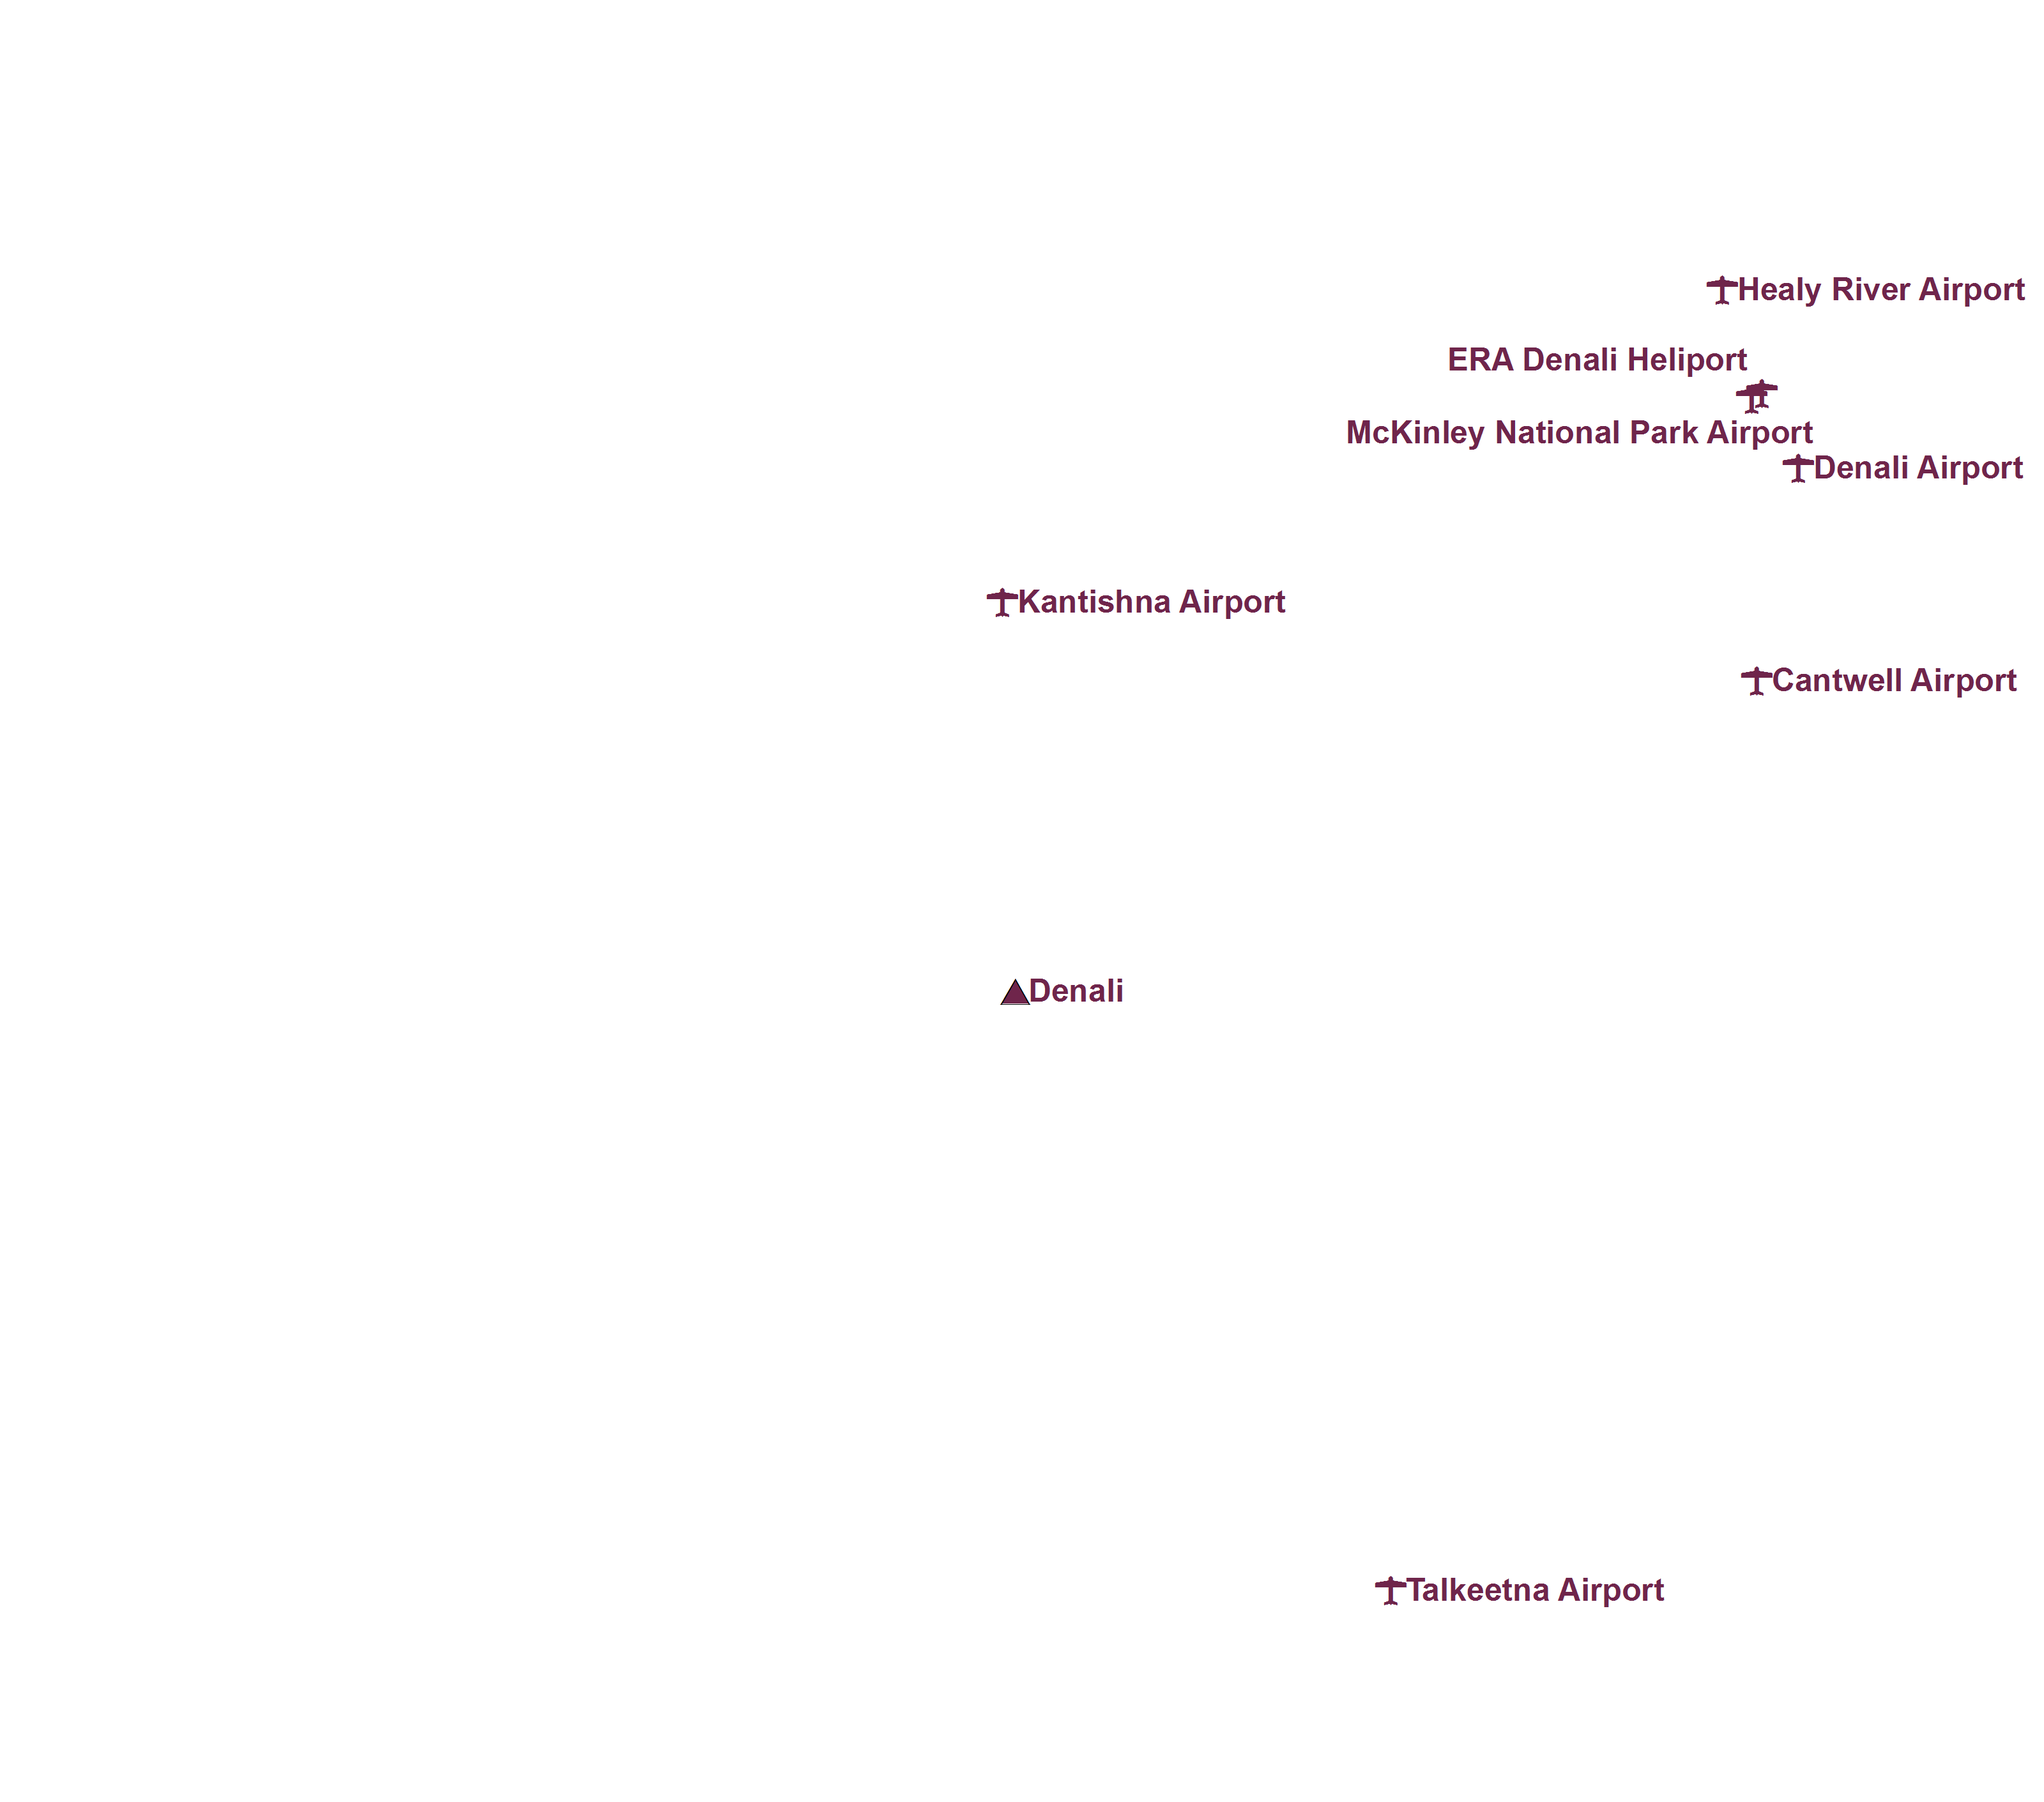
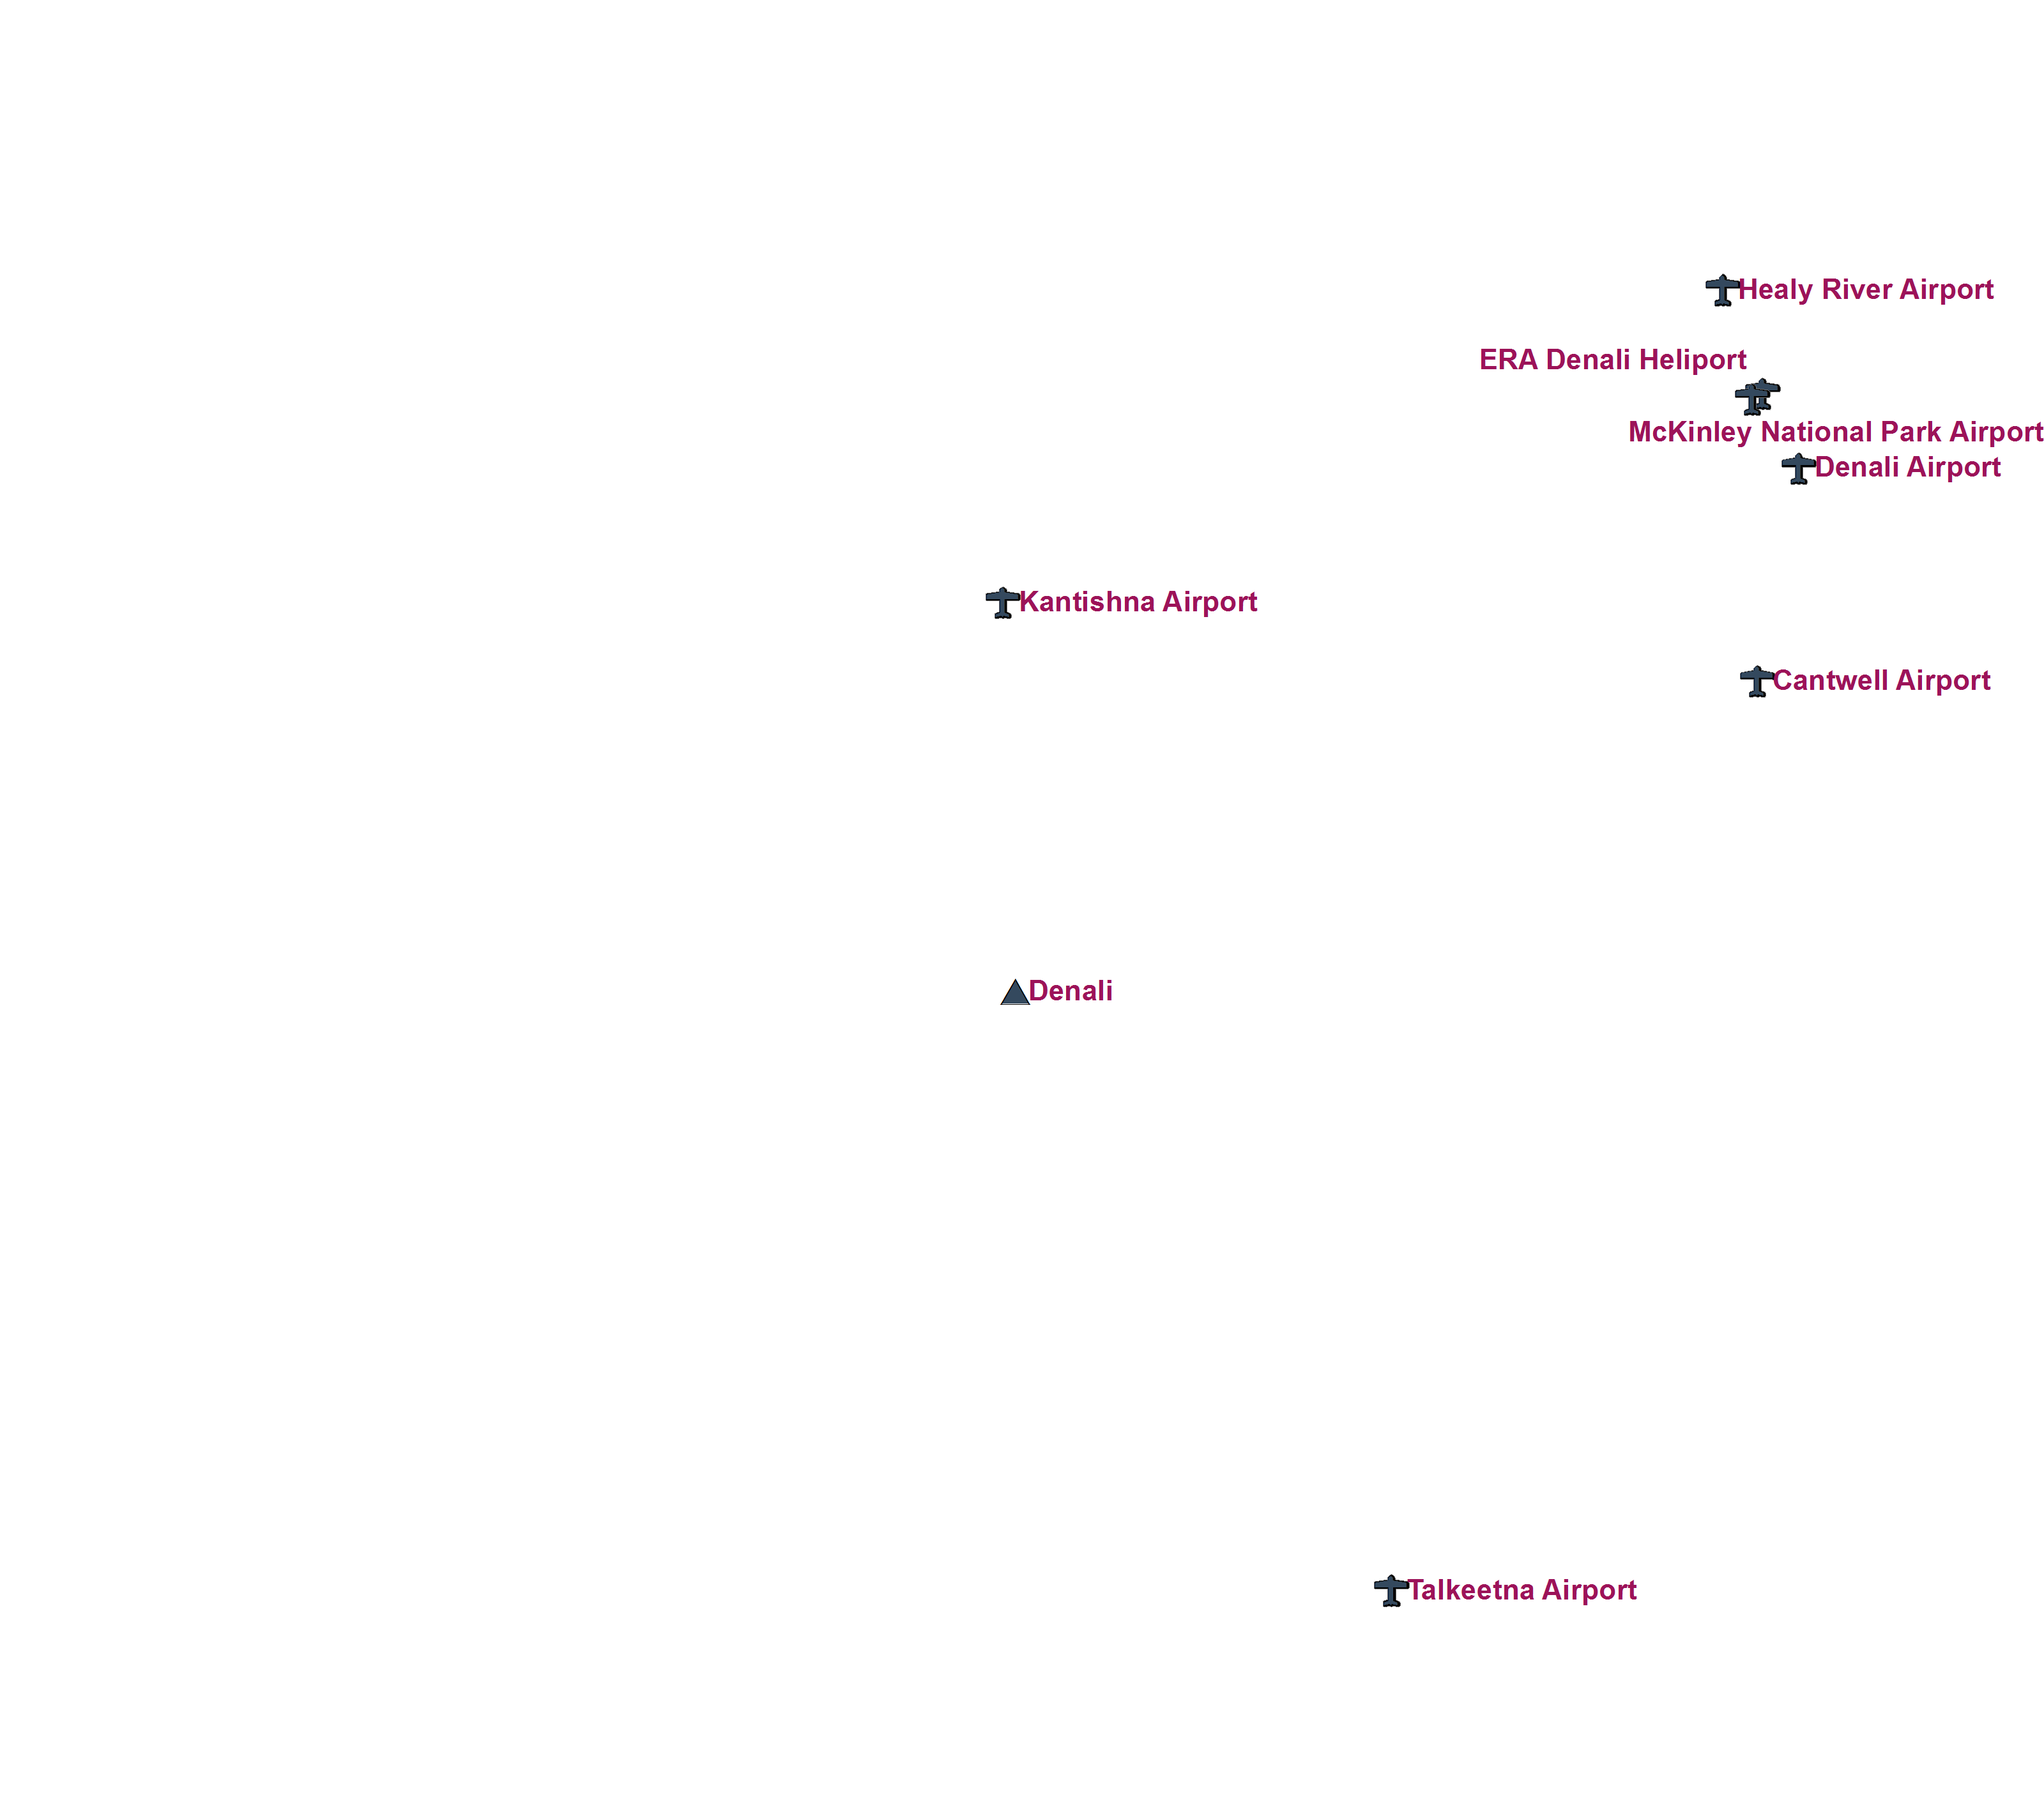
Revise colors for landmarks

diff --git a/index.html b/index.html
@@ -95,7 +95,8 @@
 				'hillshade': "Viewer/layers/hillshade.png",
 				'airports': "Viewer/layers/airports.png",
 				'dena': "Viewer/layers/DENA_outline.png",
-				'roads': "Viewer/layers/Roads.png"
+				'roads': "Viewer/layers/Roads.png",
+				'lcp': "Viewer/layers/LCP.png"
 			};
 
 			$scope.about = "Created by Gabe Joseph and the Denali National Park Physical Sciences Divsion.";
@@ -347,6 +348,7 @@
 	<div class="map-center"><img class="map" ng-src="{{imgpath + 'cost/' + weightCode() + '.png'}}" ng-if="showCostRaster" alt="Whoops, there's no cost raster rendered for that combination of weights"/></div>
 	<div class="map-center"><img class="map" ng-src="{{imgpath + 'cost/' + soloWeightCode() + '.png'}}" ng-if="showCostRaster && i.soloCostRaster" alt="Whoops, there's no cost raster rendered for that combination of weights"/></div>
 	<div class="map-center"><img class="map" id="map" ng-src="{{imgpath + 'LCP/' + weightCode() + '.png'}}" alt="Whoops, there's no map rendered for that combination of weights"/></div>
+	<!-- <div class="map-center"><img class="map" id="map" ng-src="{{basemap.lcp}}" alt="Whoops, there's no map rendered for that combination of weights"/></div> -->
 	
 	<div class="map-center"><img class="map" ng-src="{{basemap.roads}}" alt="Whoops, there's no roads"/></div>
 	<div class="map-center"><img class="map" ng-src="{{basemap.dena}}" alt="Whoops, there's no dena"/></div>

diff --git a/Scripts/layersToPng.py b/Scripts/layersToPng.py
@@ -12,7 +12,7 @@ if len(sys.argv) == 1:
 else:
     outdir = sys.argv[1]
 
-mapdoc = paths.joinNative(paths.projRoot, "templateNoCscape.mxd")
+mapdoc = paths.joinNative(paths.projRoot, "templateNoCscape2.mxd")
 print mapdoc
 mxd = arcpy.mapping.MapDocument(mapdoc)
 df = arcpy.mapping.ListDataFrames(mxd, "")[0]
